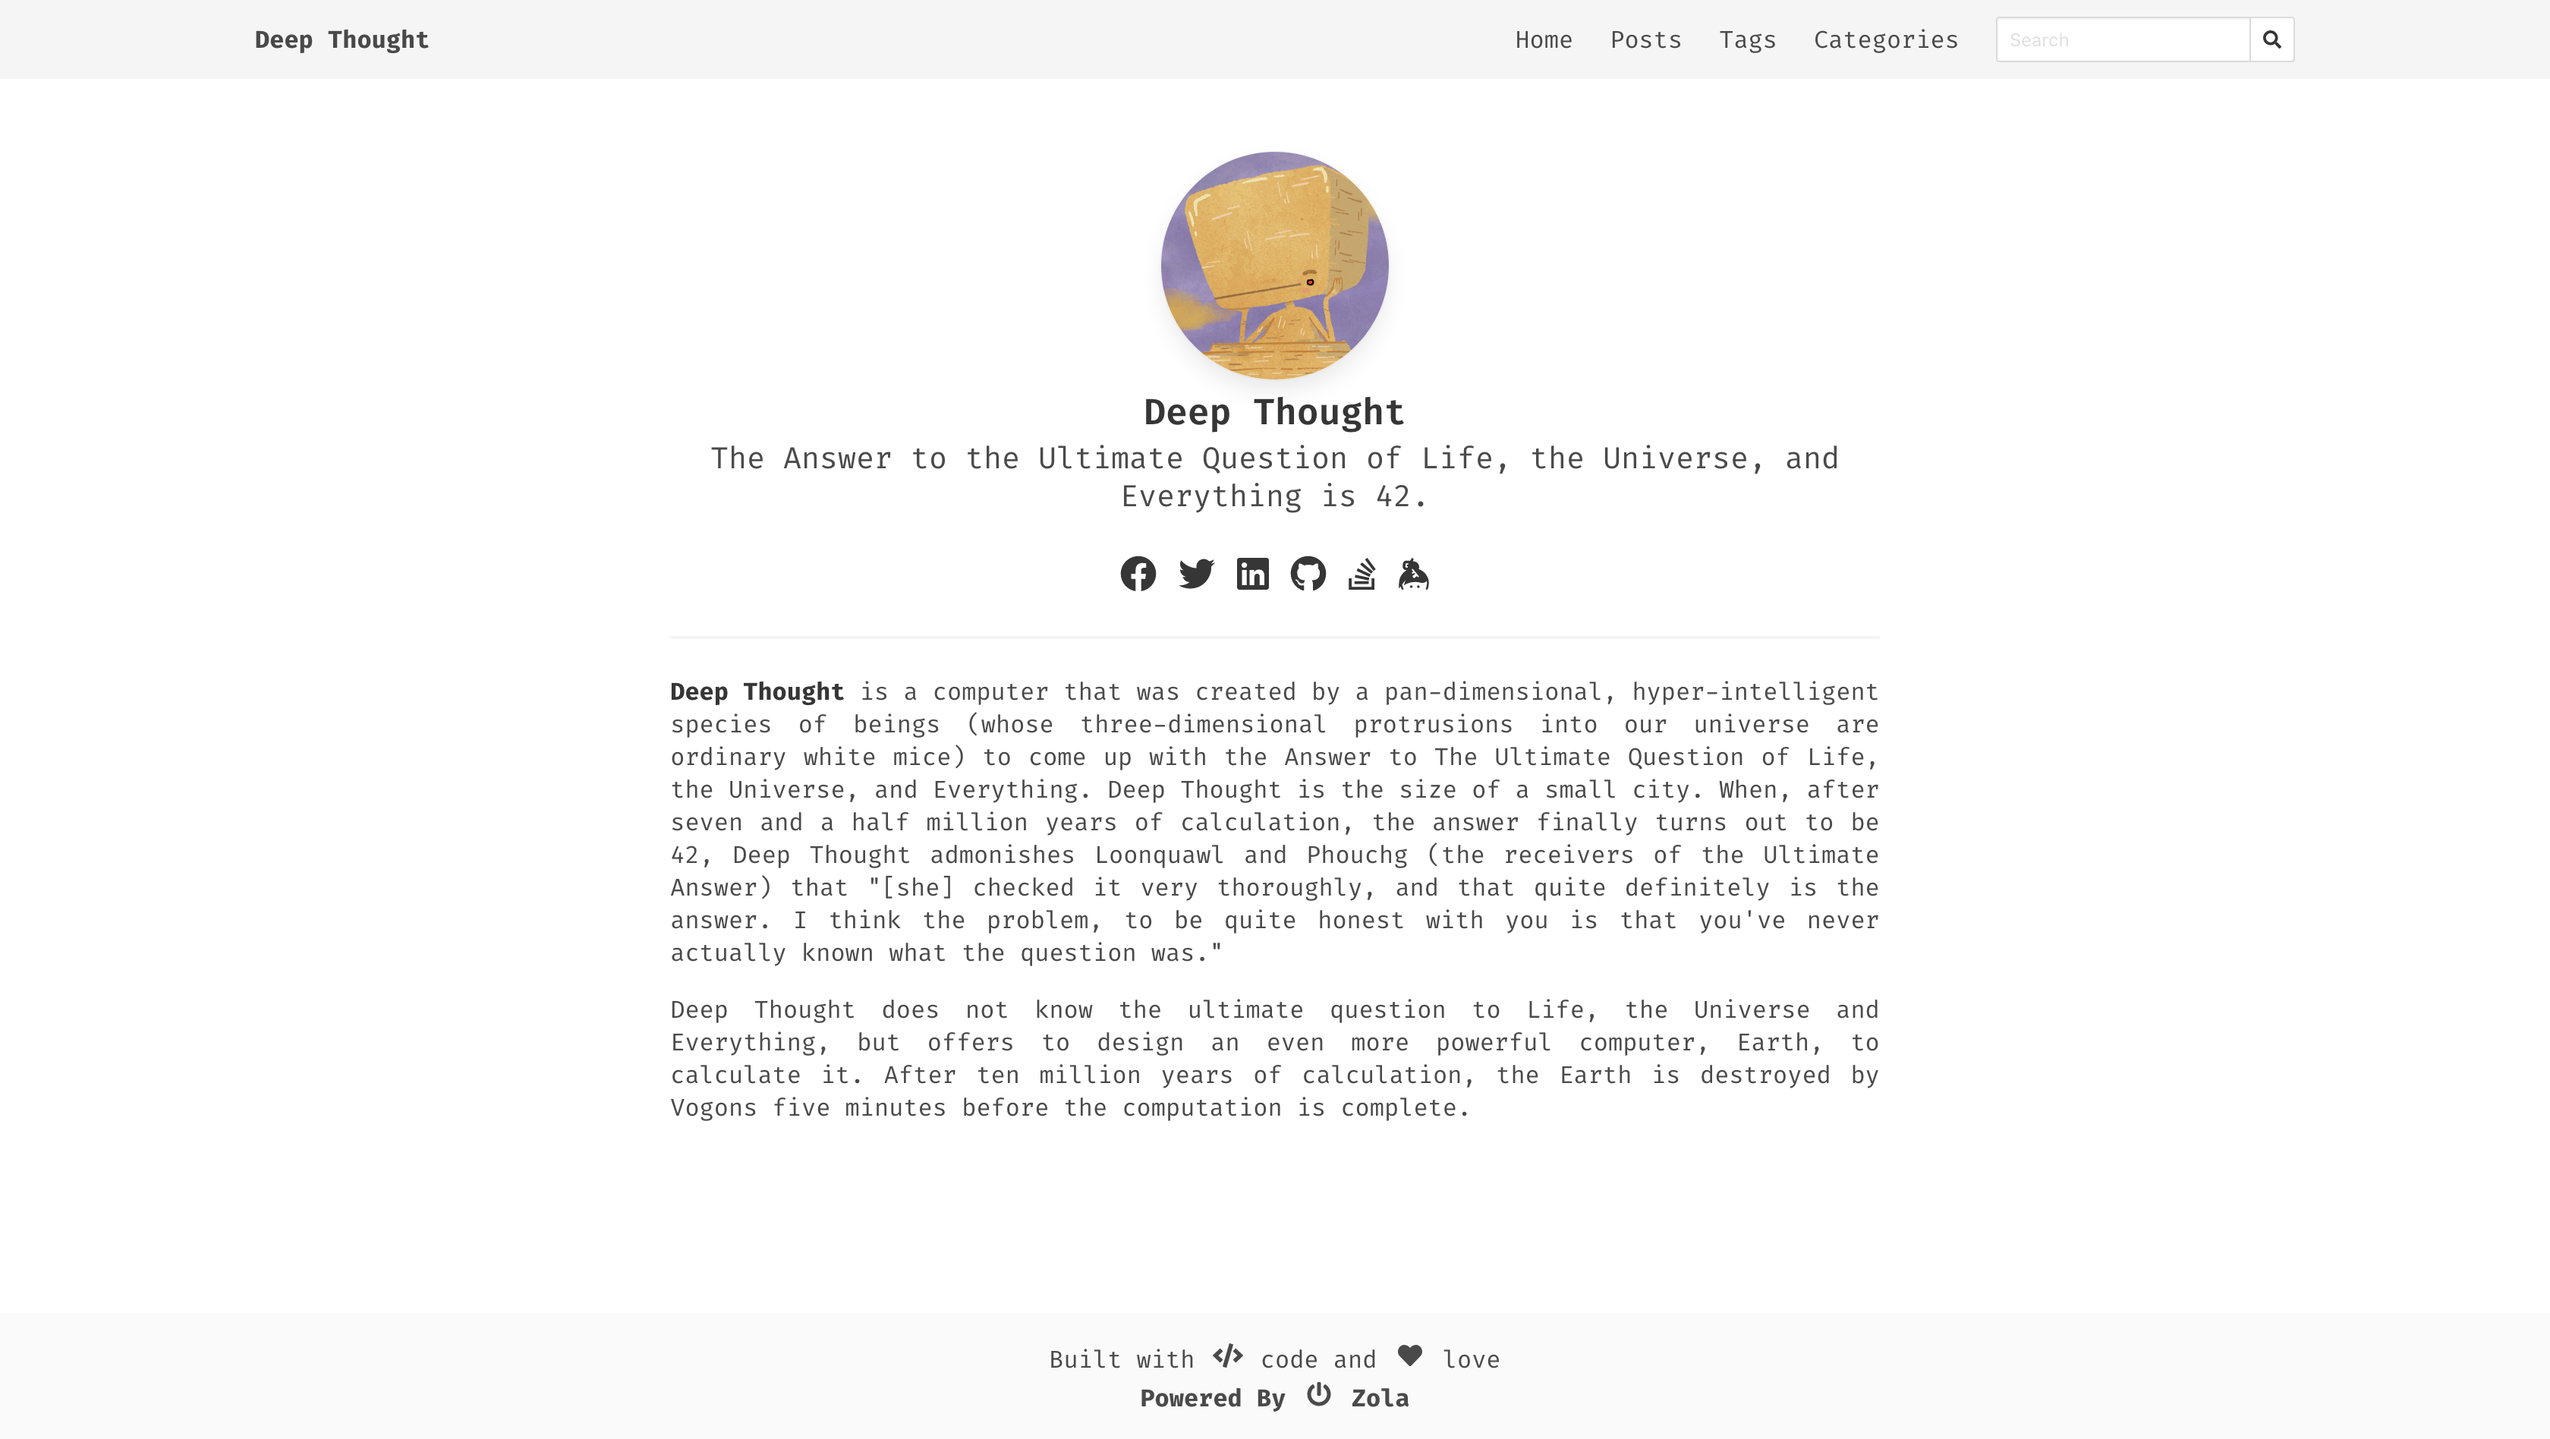
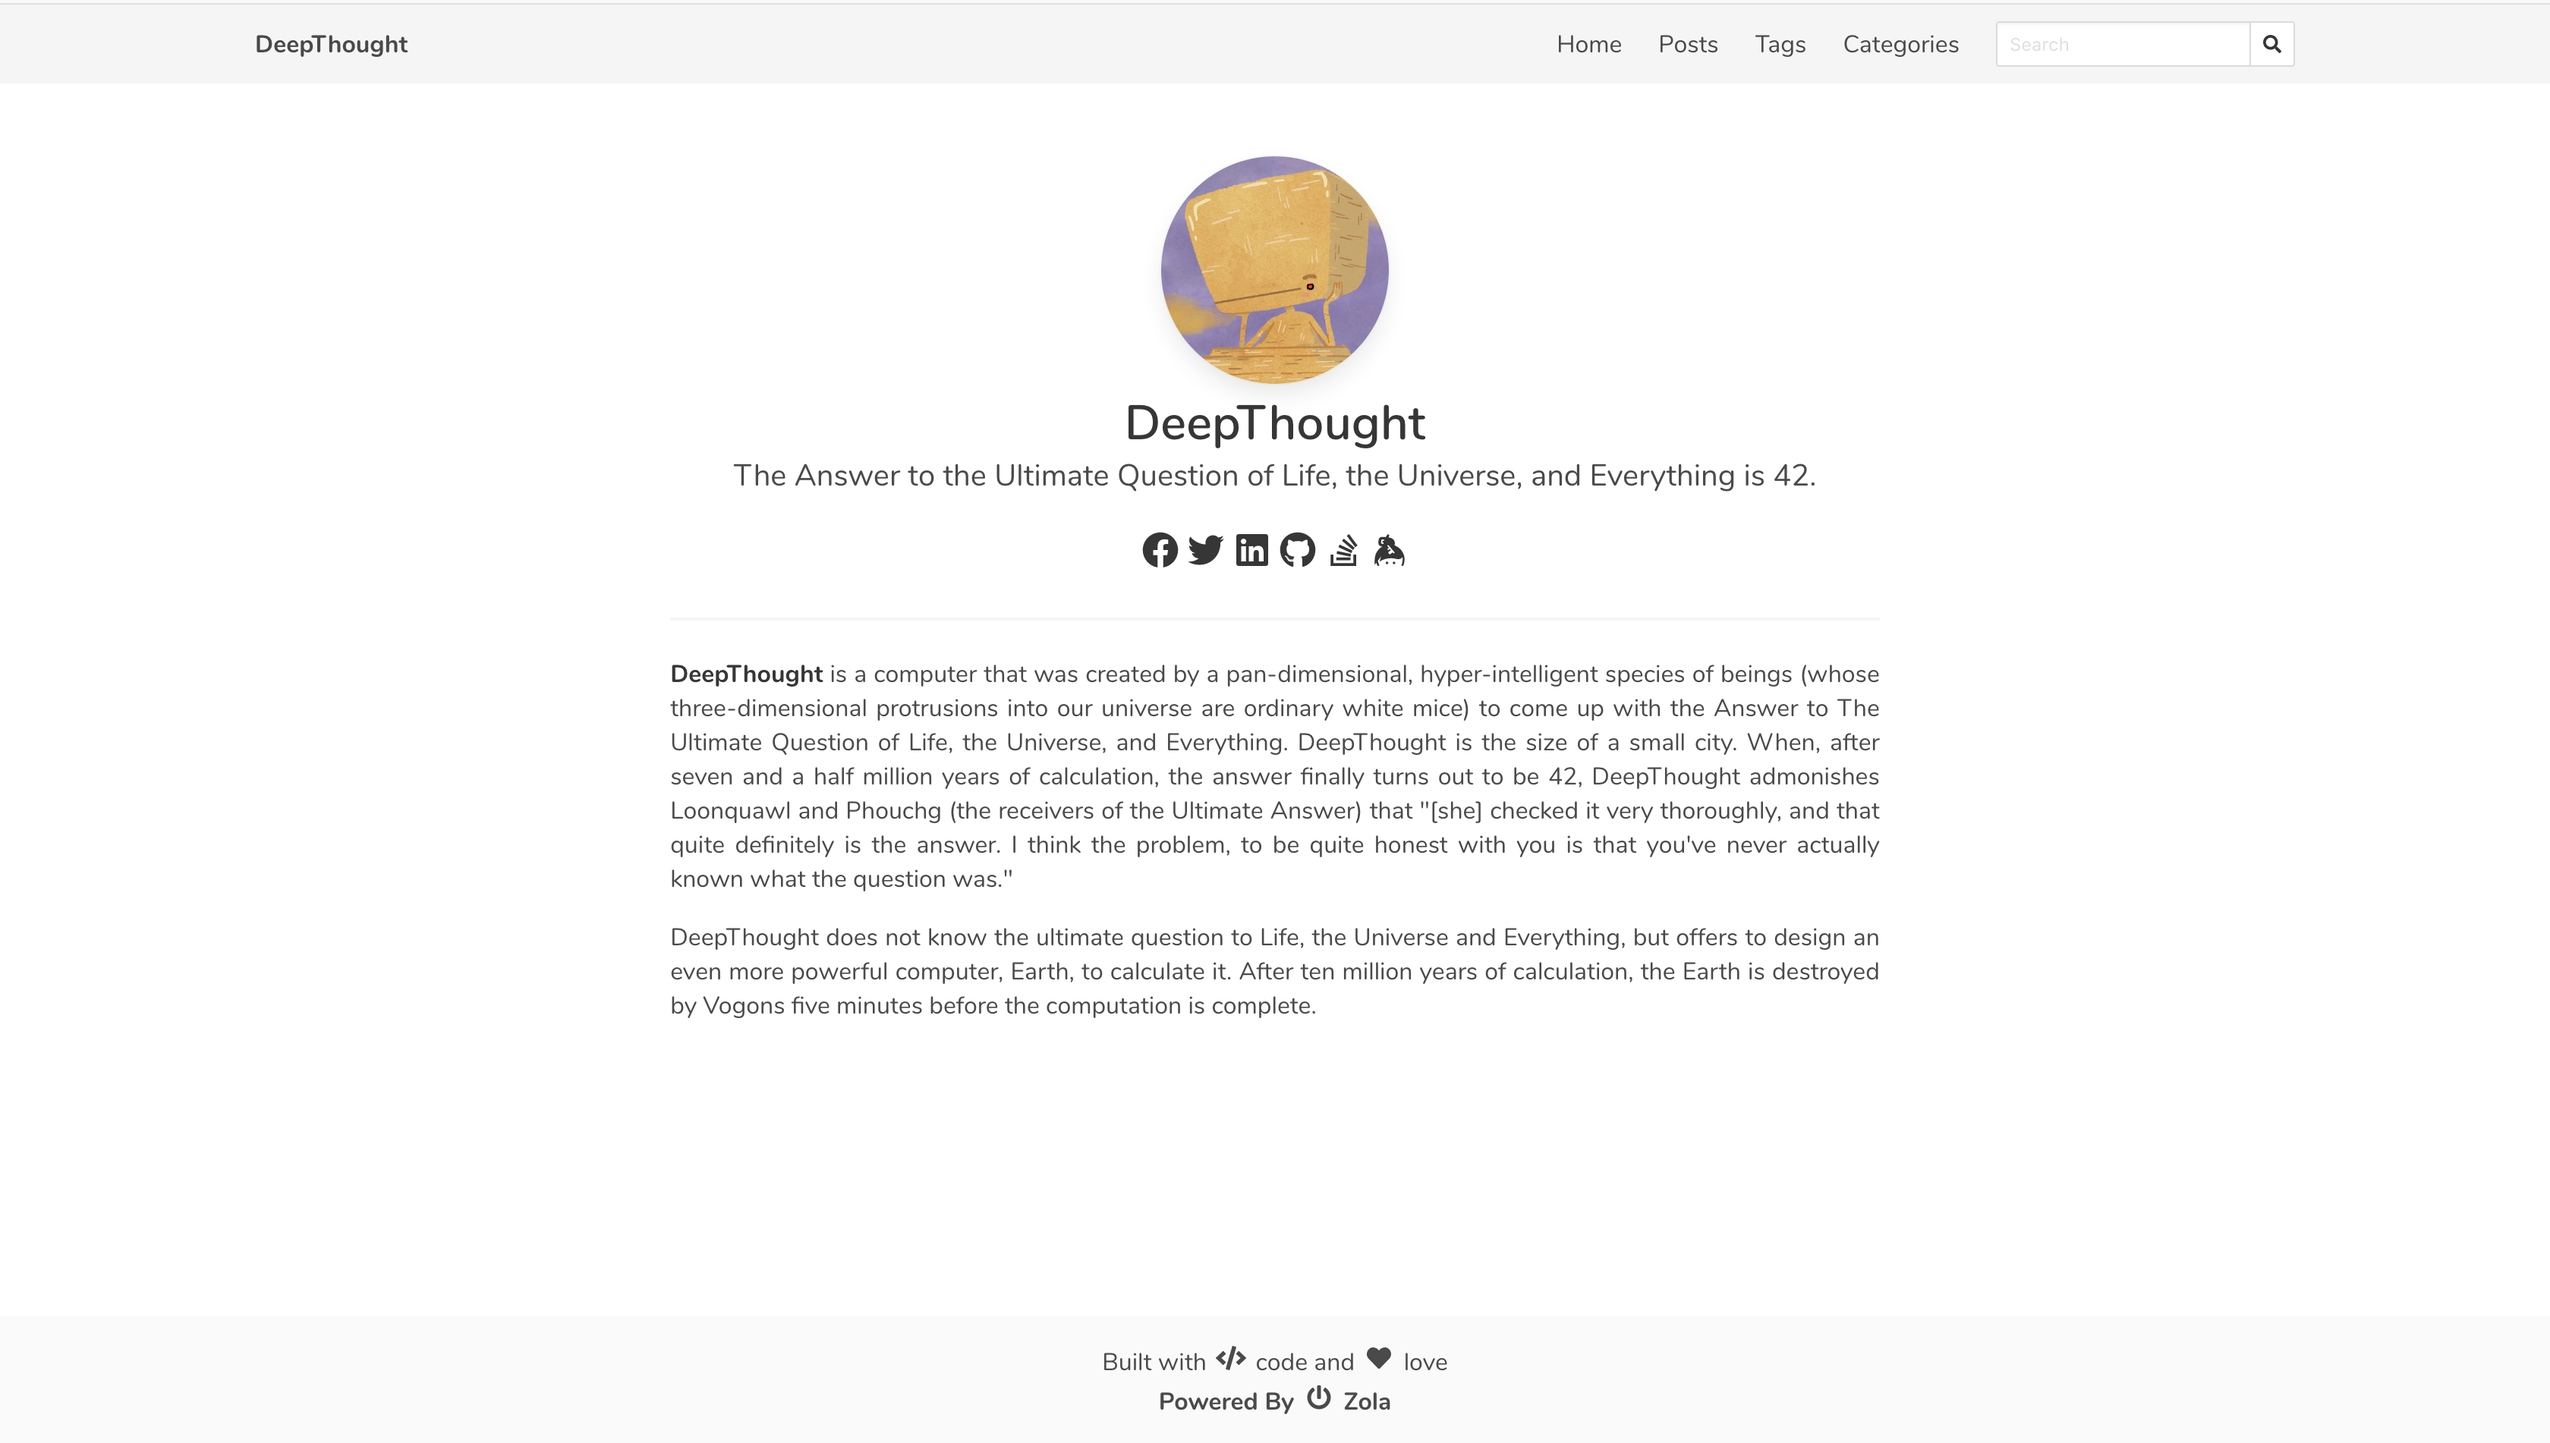
Update font and link colors

diff --git a/templates/macros.html b/templates/macros.html
@@ -1,45 +1,47 @@
 {% macro social_links(social_config) %}
-{% if social_config.facebook %}
-<a class="link" href='https://facebook.com/{{social_config.facebook}}' target='_blank'>
-	<span class='icon'>
-		<i class='fab fa-facebook'></i>
-	</span>
-</a>
-{% endif %}
-{% if social_config.twitter %}
-<a class="link" href='https://twitter.com/{{social_config.twitter}}' target='_blank'>
-	<span class='icon'>
-		<i class='fab fa-twitter'></i>
-	</span>
-</a>
-{% endif %}
-{% if social_config.linkedin %}
-<a class="link" href='https://www.linkedin.com/in/{{social_config.linkedin}}' target='_blank'>
-	<span class='icon'>
-		<i class='fab fa-linkedin'></i>
-	</span>
-</a>
-{% endif %}
-{% if social_config.github %}
-<a class="link" href='https://github.com/{{social_config.github}}' target='_blank'>
-	<span class='icon'>
-		<i class='fab fa-github'></i>
-	</span>
-</a>
-{% endif %}
-{% if social_config.stackoverflow %}
-<a class="link" href='https://stackoverflow.com/users/{{social_config.stackoverflow}}' target='_blank'>
-	<span class='icon'>
-		<i class='fab fa-stack-overflow'></i>
-	</span>
-</a>
-{% endif %}
-{% if social_config.keybase %}
-<a class="link" href='https://keybase.io/{{social_config.keybase}}' target='_blank'>
-	<span class='icon'>
-		<i class='fab fa-keybase'></i>
-	</span>
-</a>
+<p class='is-size-4'>
+	{% if social_config.facebook %}
+	<a class="link" href='https://facebook.com/{{social_config.facebook}}' target='_blank'>
+		<span class='icon'>
+			<i class='fab fa-facebook'></i>
+		</span>
+	</a>
+	{% endif %}
+	{% if social_config.twitter %}
+	<a class="link" href='https://twitter.com/{{social_config.twitter}}' target='_blank'>
+		<span class='icon'>
+			<i class='fab fa-twitter'></i>
+		</span>
+	</a>
+	{% endif %}
+	{% if social_config.linkedin %}
+	<a class="link" href='https://www.linkedin.com/in/{{social_config.linkedin}}' target='_blank'>
+		<span class='icon'>
+			<i class='fab fa-linkedin'></i>
+		</span>
+	</a>
+	{% endif %}
+	{% if social_config.github %}
+	<a class="link" href='https://github.com/{{social_config.github}}' target='_blank'>
+		<span class='icon'>
+			<i class='fab fa-github'></i>
+		</span>
+	</a>
+	{% endif %}
+	{% if social_config.stackoverflow %}
+	<a class="link" href='https://stackoverflow.com/users/{{social_config.stackoverflow}}' target='_blank'>
+		<span class='icon'>
+			<i class='fab fa-stack-overflow'></i>
+		</span>
+	</a>
+	{% endif %}
+	{% if social_config.keybase %}
+	<a class="link" href='https://keybase.io/{{social_config.keybase}}' target='_blank'>
+		<span class='icon'>
+			<i class='fab fa-keybase'></i>
+		</span>
+	</a>
+</p>
 {% endif %}
 {% endmacro %}
 

diff --git a/templates/base.html b/templates/base.html
@@ -70,32 +70,28 @@
 	</nav>
 	{% endblock %}
 
-	<section class="section">
-		<div class="container">
-			<div class='modal'>
-				<div class='modal-background'></div>
-				<div class='modal-card'>
-					<header class='modal-card-head'>
-						<p class='modal-card-title'>Search</p>
-						<button class='delete' aria-label='close'></button>
-					</header>
-					<section class='modal-card-body'>
+	<section class='modal'>
+		<div class='modal-background'></div>
+		<div class='modal-card'>
+			<header class='modal-card-head'>
+				<p class='modal-card-title'>Search</p>
+				<button class='delete' aria-label='close'></button>
+			</header>
+			<section class='modal-card-body'>
 
-						<div class='field'>
-							<p class='control has-icons-right'>
-								<input id='search' class='input' type='search' placeholder='🔎 Search the website'>
-								<span class='icon is-small is-right'>
-									<i class='fas fa-search'></i>
-								</span>
-							</p>
-						</div>
-						<div class='search-results'>
-							<div class='search-results__items'>
-							</div>
-						</div>
-					</section>
+				<div class='field'>
+					<p class='control has-icons-right'>
+						<input id='search' class='input' type='search' placeholder='🔎 Search the website'>
+						<span class='icon is-small is-right'>
+							<i class='fas fa-search'></i>
+						</span>
+					</p>
 				</div>
-			</div>
+				<div class='search-results'>
+					<div class='search-results__items'>
+					</div>
+				</div>
+			</section>
 		</div>
 	</section>
 

diff --git a/templates/index.html b/templates/index.html
@@ -10,11 +10,9 @@
 						<img class='is-rounded card' src='{{config.extra.author.avatar}}' style='max-width: 150px'>
 					</figure>
 					<div class='has-text-centered'>
-						<h1 class='title is-size-4'>{{ section.title }}</h1>
+						<h1 class='title'>{{ section.title }}</h1>
 						<h2 class='subtitle'>{{ section.description }}</h2>
-						<p class='is-size-4'>
-							{{ macros:: social_links( social_config=config.extra.social) }}
-						</p>
+						{{ macros:: social_links( social_config=config.extra.social) }}
 					</div>
 					<hr />
 					<div class='content has-text-justified'>
@@ -22,7 +20,6 @@
 					</div>
 				</div>
 			</div>
-
 		</div>
 	</div>
 </main>

diff --git a/sass/site.scss b/sass/site.scss
@@ -1,12 +1,12 @@
-@import "https://fonts.googleapis.com/css2?family=Fira+Code:wght@300;400;500;515;600;700&display=swap";
+@import "https://fonts.googleapis.com/css2?family=Nunito:ital,wght@0,200;0,300;0,400;0,600;0,700;0,800;0,900;1,200;1,300;1,400;1,600;1,700;1,800;1,900&display=swap";
 
-$font-stack: "Fira Code", monospace;
+$font-stack: "Nunito", sans-serif;
 
-$link: #363636;
-$link-hover: #2d96bd;
+$link: hsl(0, 0%, 21%);
+$link-hover: hsl(204, 71%, 39%);
 
-$read-more: #2d96bd;
-$read-more-hover: #ef3982;
+$read-more: hsl(204, 71%, 39%);
+$read-more-hover: hsl(348, 100%, 61%);
 
 body {
   font: 100% $font-stack;

diff --git a/README.md b/README.md
@@ -57,6 +57,7 @@ access_token = "<your_access_token>"
 ```
 
 ## Features
+- [ ] Dark Mode
 - [x] Pagination
 - [x] Search
 - [x] Charts
